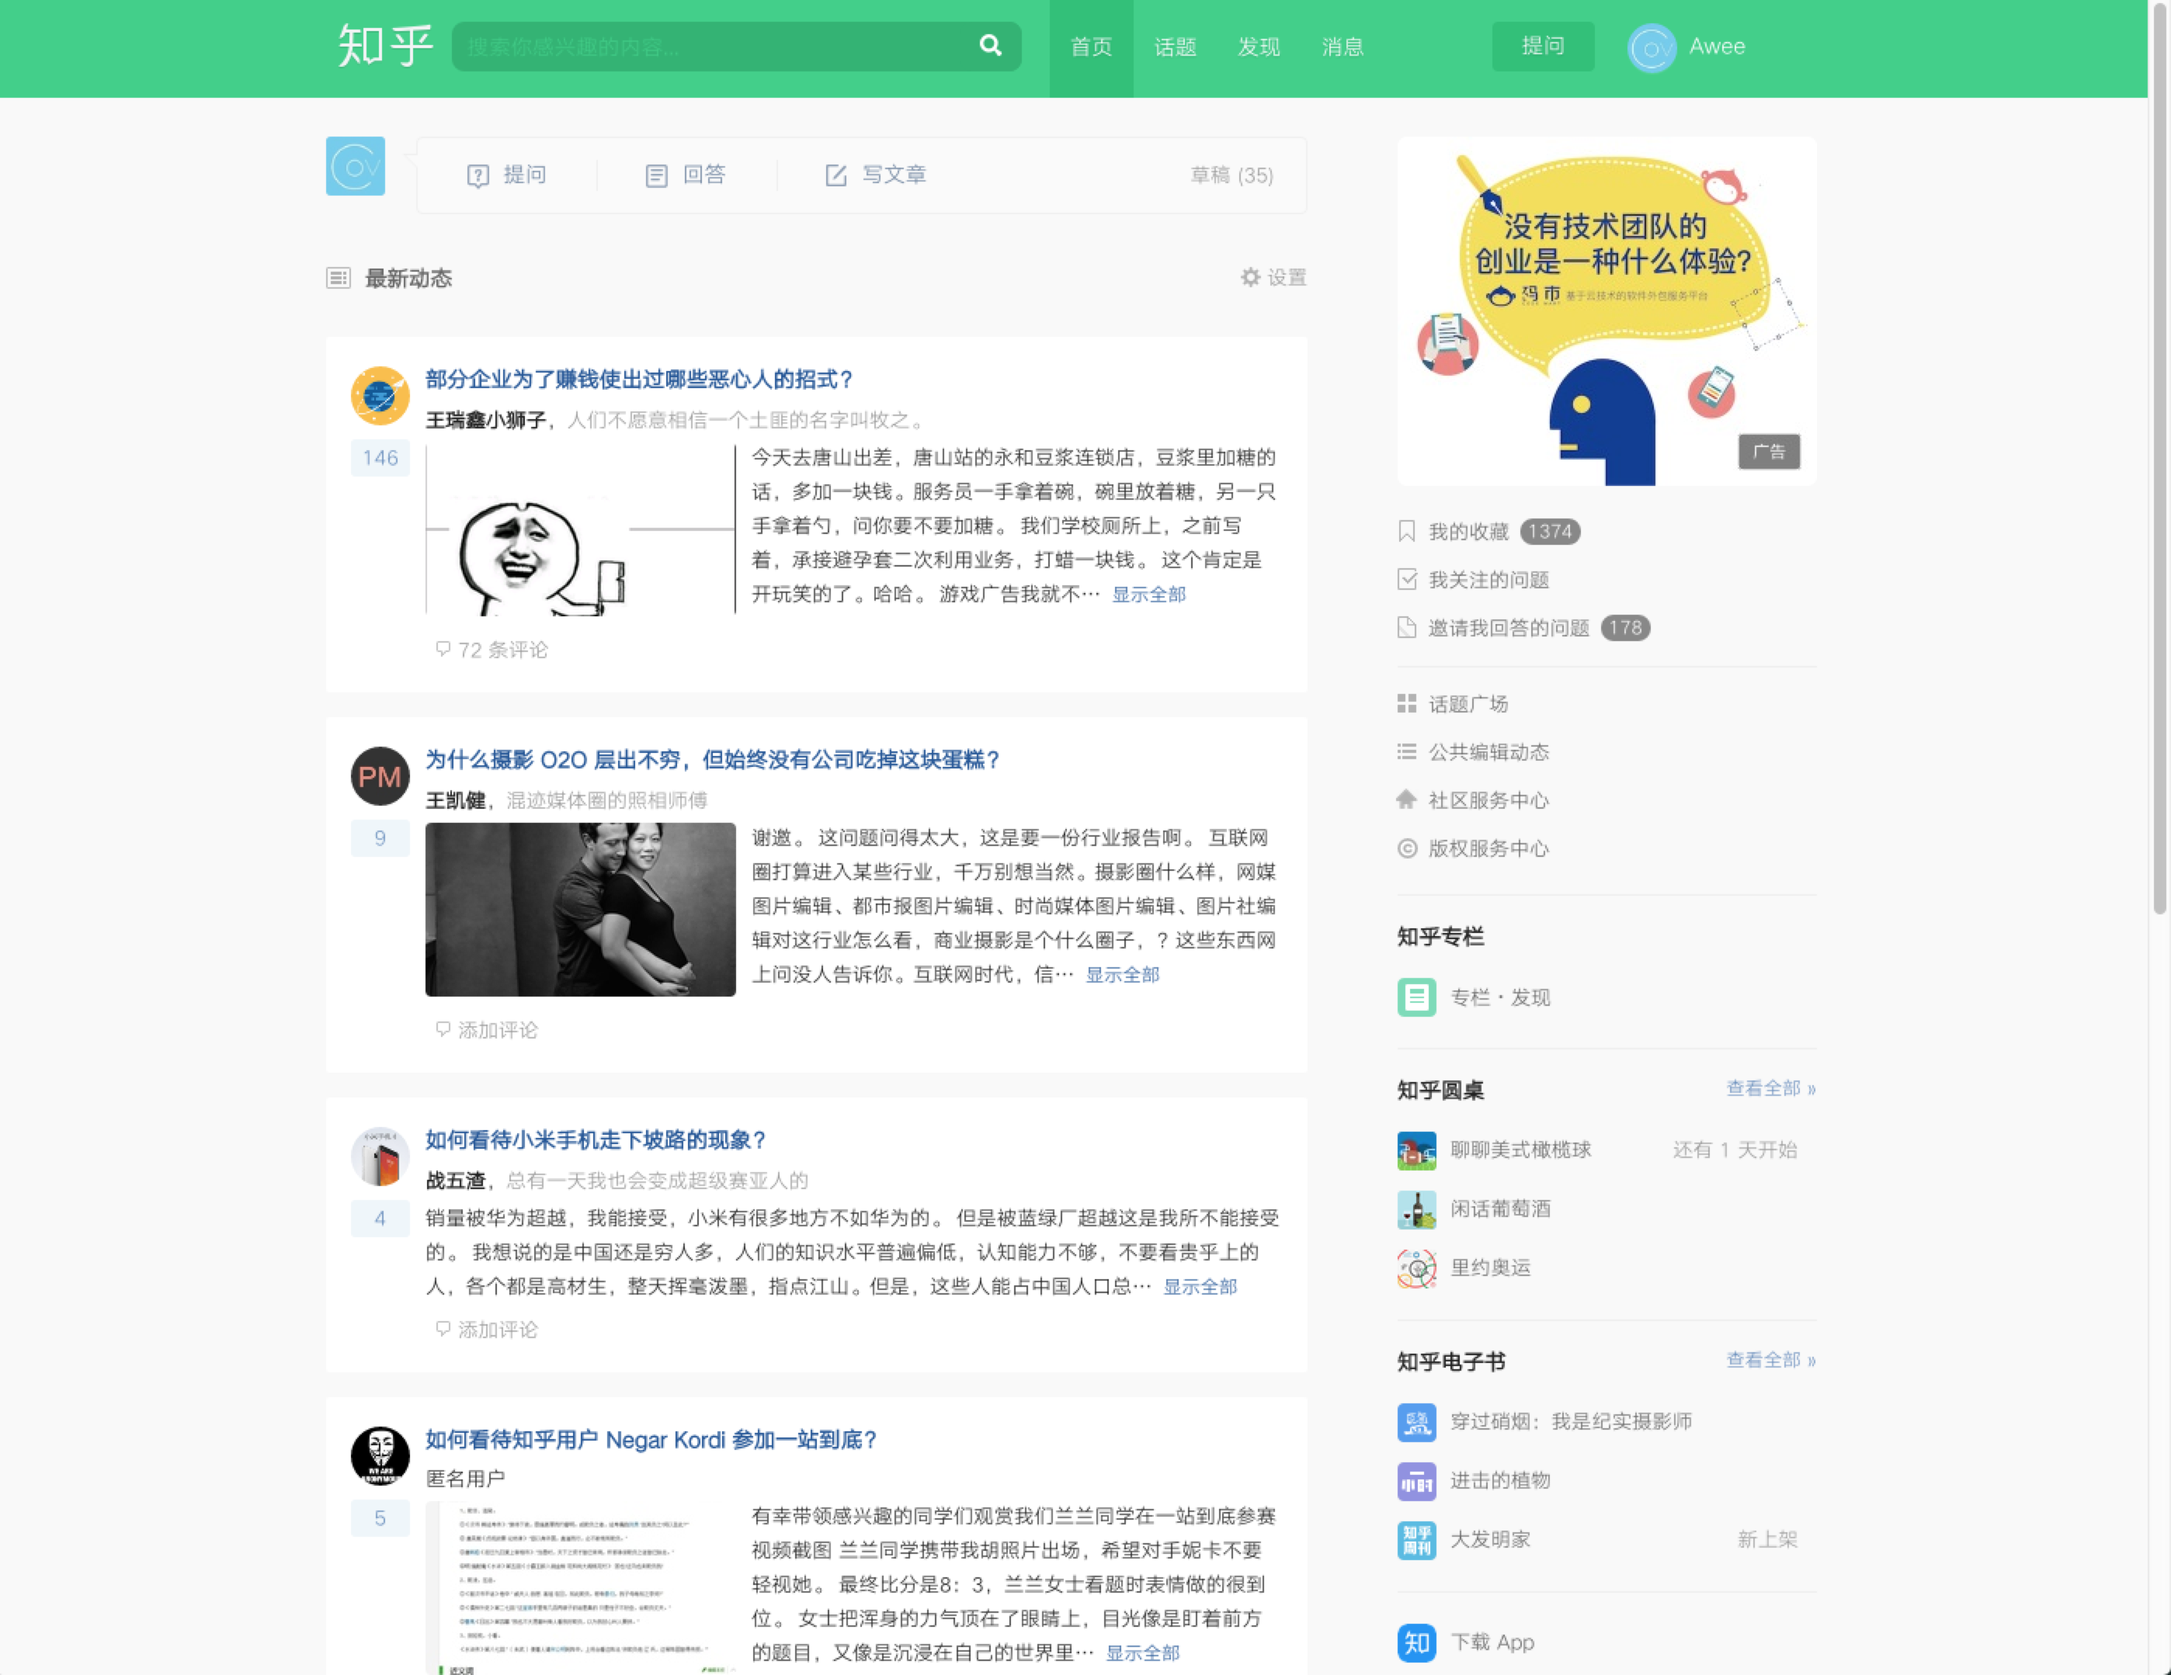
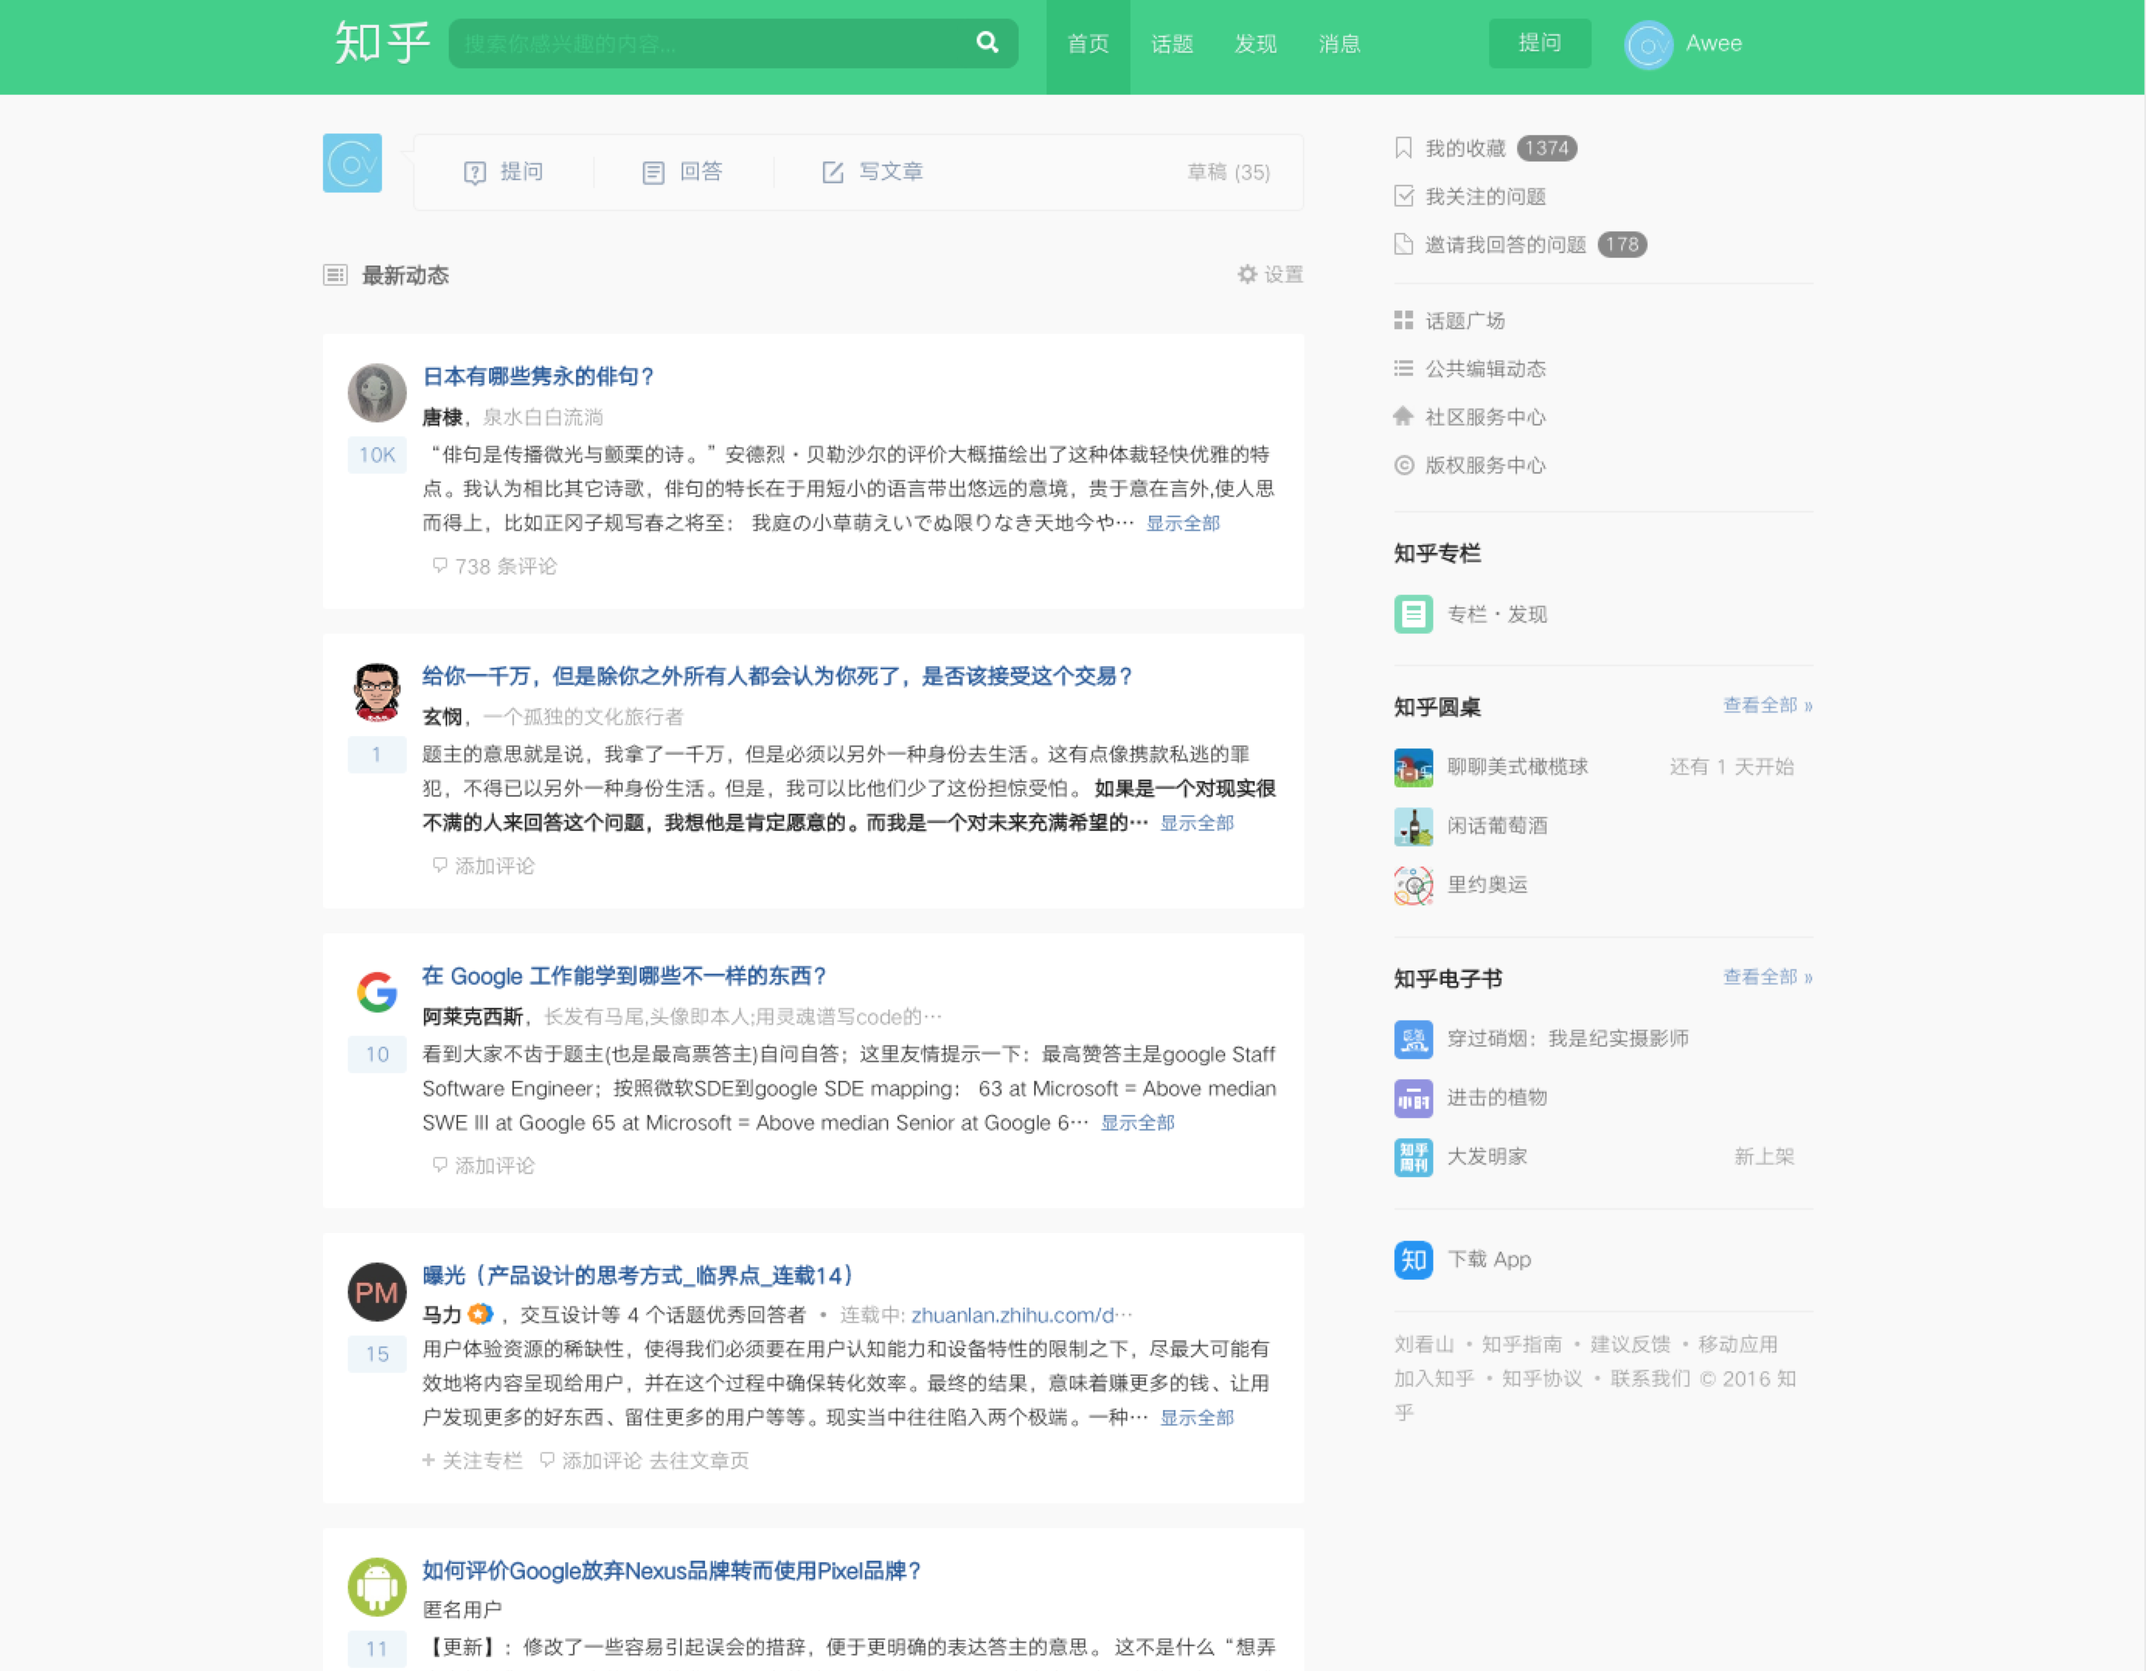
update: docs

diff --git a/cov.css b/cov.css
@@ -8,9 +8,9 @@ html body.zhi {
 
 /*common*/
 
-/*.zhi .shameimaru-section {
+.zhi .shameimaru-section {
     display: none!important;
-}*/
+}
 .zhi .zh-profile-card .lower .operation .zg-btn,
 .zhi .follow-button.zg-follow.zg-btn-green,
 .zh-question-answer-form-wrap .submit-button {

diff --git a/README.md b/README.md
@@ -1,16 +1,34 @@
 # Zhihu Beautify
 
+> 声明：『知乎』是 知乎. Inc 的注册商标。本软件与其代码非由知乎创作或维护。软件中所包含的信息与内容皆违反版权与知乎用户协议。它是一个免费软件，使用它不收取您任何费用。其中的所有内容均可在知乎获取。
+
 一个简单的 Chrome 浏览器插件，通过 CSS 和 JS 调整了部分知乎 Web PC 端的 UI 样式，优化刷知乎的体验。
+
+## 为什么要写这样一个插件
+
+因为觉得知乎的时间线多了很多其实我基本不需要的链接或者功能，反而显得整个信息流有些混乱，所以作为一个前端，就开始自己本地写了一个Chrome 插件开始按照自己的一些想法来优化和精简知乎的 PC 首页信息流等页面。
+
+至今我已经使用了有几个月了。
+
+偶然和朋友聊到我写了一个优化知乎页面的插件，他问我为啥不放到 github 上，于是，这就放到这里了。
 
 ## 功能
 
 **before**
 ![](https://github.com/hilongjw/zhihu-beautify/blob/master/before.png)
+![](https://github.com/hilongjw/zhihu-beautify/blob/master/before-1.png)
+![](https://github.com/hilongjw/zhihu-beautify/blob/master/before-2.png)
 
 **after**
 ![](https://github.com/hilongjw/zhihu-beautify/blob/master/after.png)
+![](https://github.com/hilongjw/zhihu-beautify/blob/master/after-1.png)
+![](https://github.com/hilongjw/zhihu-beautify/blob/master/after-2.png)
 
 ## 安装
 
 - 下载 zip 或者 git clone 获得项目代码
 - Chrome 设置 -> 扩展程序 -> 开启开发者模式 -> 加载已解压的扩展程序 -> 选择当前项目的目录
+
+## License
+
+MIT
